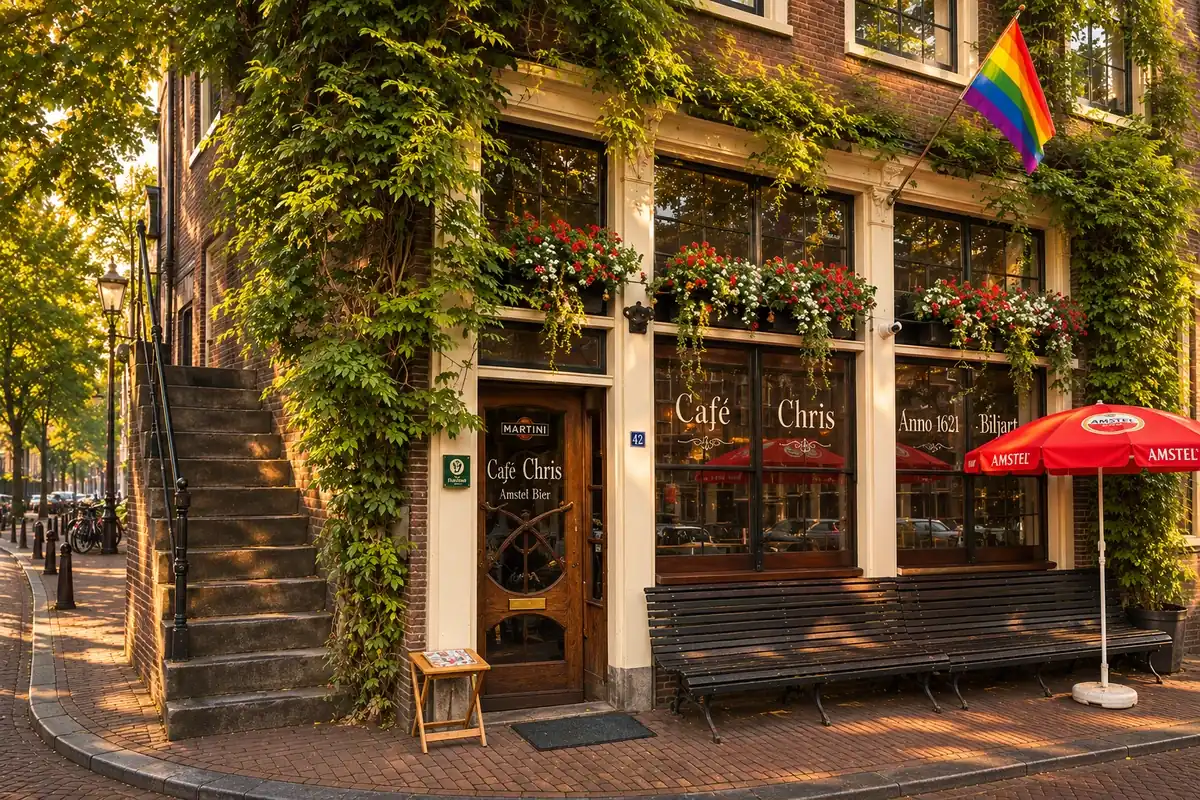
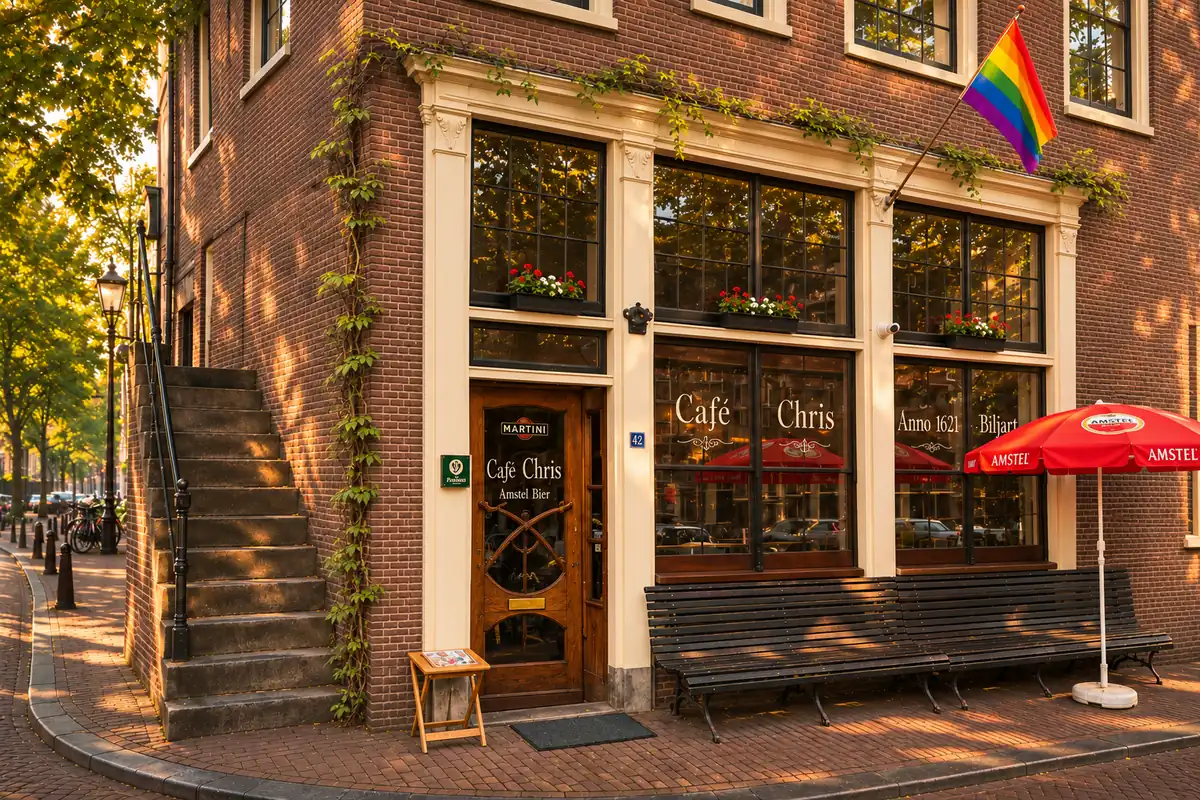
Nieuwe Café Chris-illustratie en weetje over de Kleine Komedie
Claude-Session: https://claude.ai/code/session_01PXyrFqb84NbFeccCaBTvSe

diff --git a/index.html b/index.html
@@ -890,6 +890,9 @@ const WEETJES=[
 {id:'munt',lat:52.3673,lng:4.8930,
  nl:{n:`Geld uit een toren`,t:`De Munttoren was eerst een stadspoort. In het rampjaar 1672, toen het land in oorlog was, werd hier tijdelijk geld geslagen. Vandaar de naam.`},
  en:{n:`Money from a tower`,t:`The Munttoren began as a city gate. In the disaster year 1672, with the country at war, coins were minted here for a while. Hence the name: mint tower.`}},
+{id:'komedie',lat:52.3667,lng:4.8962,
+ nl:{n:`Franse toneelstukken op de Erwtenmarkt`,t:`De Kleine Komedie aan de Amstel is het oudste theater van Amsterdam dat nog in gebruik is. Het opende in 1786 als 'Théâtre Français sur l'Erwtenmarkt': Frans toneel voor de rijke elite, op een plek die naar een erwtenmarkt heette. Henry Hope en de andere geldschieters verdienden mee aan de slavenhandel. In de oorlog stalden bankmedewerkers er hun fietsen. De naam Kleine Komedie kreeg het pas in 1947. Nu is het dé cabaretzaal van het land.`},
+ en:{n:`French plays on the Pea Market`,t:`De Kleine Komedie on the Amstel is the oldest Amsterdam theatre still in use. It opened in 1786 as the 'Théâtre Français sur l'Erwtenmarkt': French drama for the wealthy elite, on a spot named after a pea market. Henry Hope and the other backers profited from the slave trade. During the war, bank staff parked their bikes inside. It only got the name Kleine Komedie in 1947. Today it is the country's top cabaret stage.`}},
 {id:'blauw',lat:52.3670,lng:4.9005,
  nl:{n:`Een blauwe brug die niet blauw is`,t:`De Blauwbrug over de Amstel is van steen en niet blauw. Hij dankt zijn naam aan de houten brug die hier eerder lag, en die wel blauw geverfd was.`},
  en:{n:`A blue bridge that isn't blue`,t:`The Blauwbrug over the Amstel is made of stone and is not blue. It is named after the wooden bridge that stood here earlier, which was painted blue.`}},

diff --git a/_src/weetjes.js b/_src/weetjes.js
@@ -39,6 +39,9 @@ const WEETJES=[
 {id:'munt',lat:52.3673,lng:4.8930,
  nl:{n:`Geld uit een toren`,t:`De Munttoren was eerst een stadspoort. In het rampjaar 1672, toen het land in oorlog was, werd hier tijdelijk geld geslagen. Vandaar de naam.`},
  en:{n:`Money from a tower`,t:`The Munttoren began as a city gate. In the disaster year 1672, with the country at war, coins were minted here for a while. Hence the name: mint tower.`}},
+{id:'komedie',lat:52.3667,lng:4.8962,
+ nl:{n:`Franse toneelstukken op de Erwtenmarkt`,t:`De Kleine Komedie aan de Amstel is het oudste theater van Amsterdam dat nog in gebruik is. Het opende in 1786 als 'Théâtre Français sur l'Erwtenmarkt': Frans toneel voor de rijke elite, op een plek die naar een erwtenmarkt heette. Henry Hope en de andere geldschieters verdienden mee aan de slavenhandel. In de oorlog stalden bankmedewerkers er hun fietsen. De naam Kleine Komedie kreeg het pas in 1947. Nu is het dé cabaretzaal van het land.`},
+ en:{n:`French plays on the Pea Market`,t:`De Kleine Komedie on the Amstel is the oldest Amsterdam theatre still in use. It opened in 1786 as the 'Théâtre Français sur l'Erwtenmarkt': French drama for the wealthy elite, on a spot named after a pea market. Henry Hope and the other backers profited from the slave trade. During the war, bank staff parked their bikes inside. It only got the name Kleine Komedie in 1947. Today it is the country's top cabaret stage.`}},
 {id:'blauw',lat:52.3670,lng:4.9005,
  nl:{n:`Een blauwe brug die niet blauw is`,t:`De Blauwbrug over de Amstel is van steen en niet blauw. Hij dankt zijn naam aan de houten brug die hier eerder lag, en die wel blauw geverfd was.`},
  en:{n:`A blue bridge that isn't blue`,t:`The Blauwbrug over the Amstel is made of stone and is not blue. It is named after the wooden bridge that stood here earlier, which was painted blue.`}},
